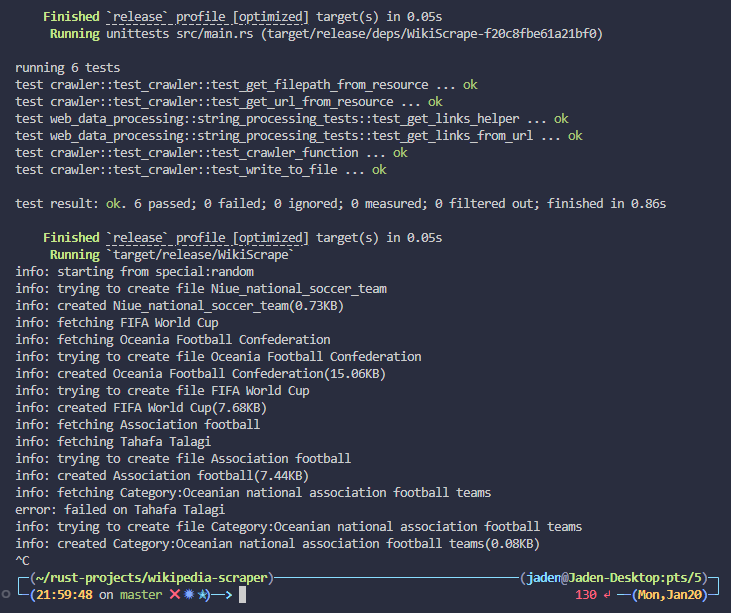
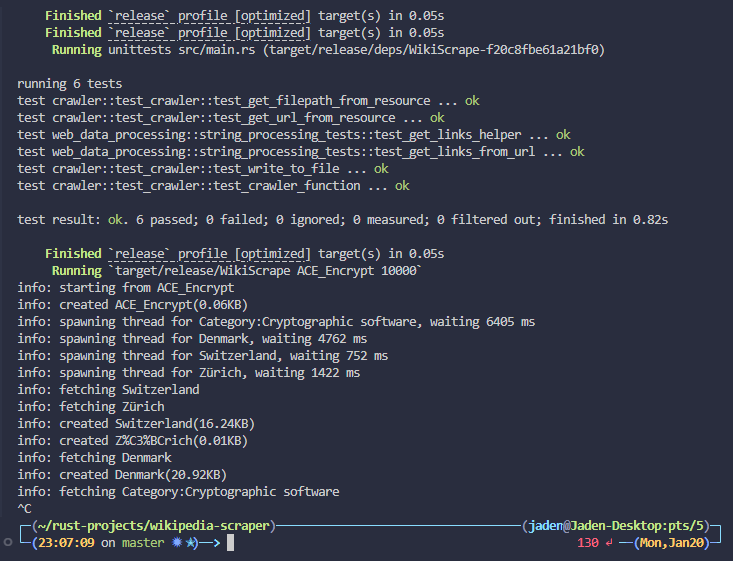
cleaned up output and changed readme image

Changed region(s): [[0.0, 0.0, 0.9932, 1.0], [0.7524, 0.303, 0.9029, 0.4242]]

diff --git a/src/main.rs b/src/main.rs
@@ -1,23 +1,66 @@
 use once_cell::sync::Lazy;
 use rand::Rng;
 use std::{
-    env::args,
-    sync::{Arc, Mutex}
+    env::args, num::ParseIntError, sync::{Arc, Mutex}
 };
-use tokio::task::JoinSet;
+use tokio::{fs::{create_dir, try_exists}, task::JoinSet};
 
 mod web_data_processing;
 mod crawler;
 
+fn get_args()->Result<(u64, String),ParseIntError>{
 
+    static ARGS: Lazy<Vec<String>> = Lazy::new(|| args().into_iter().collect());
+    let mut random_wait_ms:u64 = 10000;
+    let mut origin_resource = "special:random";
+
+    // ARGS[0] = binary path, should skip when parsing args
+    match ARGS.len() {
+        0=>{}
+        1=>{},
+        2=>{
+            match ARGS[1].parse::<u64>(){
+                Ok(i) => random_wait_ms = i,
+                Err(_) => origin_resource = &ARGS[1],
+            };
+        },
+        _2_plus=>{
+            match ARGS[1].parse::<u64>(){
+                Ok(i) => {random_wait_ms = i; origin_resource=&ARGS[2]},
+                Err(_) => {origin_resource = &ARGS[1]; random_wait_ms = match ARGS[2].parse::<u64>(){
+                    Ok(i)=>i,
+                    Err(e)=>{return Err(e)}
+                    };
+                }
+            }
+        }
+    };
+    
+    return Ok((random_wait_ms, origin_resource.to_string()))
+}
 
 #[tokio::main]
 async fn main() -> Result<(), Box<dyn std::error::Error>> {
     // handle args
-    static ARGS: Lazy<Vec<String>> = Lazy::new(|| args().into_iter().collect());
-    let origin_resource = match ARGS.get(1) {
-        Some(s) => s,
-        None => "special:random",
+    let random_wait_ms;
+    let origin_resource;
+    match get_args(){
+        Ok(i)=>{(random_wait_ms, origin_resource) = i}
+        Err(e)=>{println!("There was an error parsing your args: {}", e);return Ok(())}
+    }; 
+    // match ARGS.get(1) {
+    //     Some(s) => origin_resource= s,
+    //     None => {origin_resource= "special:random"},
+    // };
+
+    // 
+    match try_exists("data/").await{
+        Ok(true)=>{},
+        Ok(false)=>{match create_dir("data/").await{
+            Ok(_)=>{},
+            Err(e)=>{println!("There was an error creating 'data/': {}", e); return Ok(())}
+        };},
+        Err(e)=>{println!("There was an error checking if 'data/' exists: {}", e);return Ok(())}
     };
 
     println!("info: starting from {}", origin_resource);
@@ -43,9 +86,10 @@ async fn main() -> Result<(), Box<dyn std::error::Error>> {
             Some(resource_list) => {
                 for resource in resource_list
                     .into_iter()
-                    .map(|s| (rng.gen_range(0..100000), s))
+                    .map(|s| (rng.gen_range(0..random_wait_ms), s))
                 {
                     let stack_arc_mutex_clone = stack_arc_mutex.clone();
+                    println!("info: spawning thread for {}, waiting {} ms", resource.1, resource.0);
                     set.spawn(async move {
                         crawler::crawler_thread(&stack_arc_mutex_clone, resource).await;
                     });
@@ -53,7 +97,7 @@ async fn main() -> Result<(), Box<dyn std::error::Error>> {
             }
             None => {
                 // No more resources to process
-                println!("no new resources to process!");
+                println!("info: no new resources to process!");
                 break;
             }
         }

diff --git a/src/crawler.rs b/src/crawler.rs
@@ -72,7 +72,6 @@ pub(crate) async fn write_links(resource: &str) -> Result<(), Box<dyn std::error
 
     let (returned_resource, mut response) = get_links_from_url(&get_url_from_resource(resource)).await?;
 
-    println!("info: trying to create file {}", returned_resource);
     let mut f = match File::create_new(&filepath).await {
         Ok(f) => f,
         Err(e) => match e.kind() {
